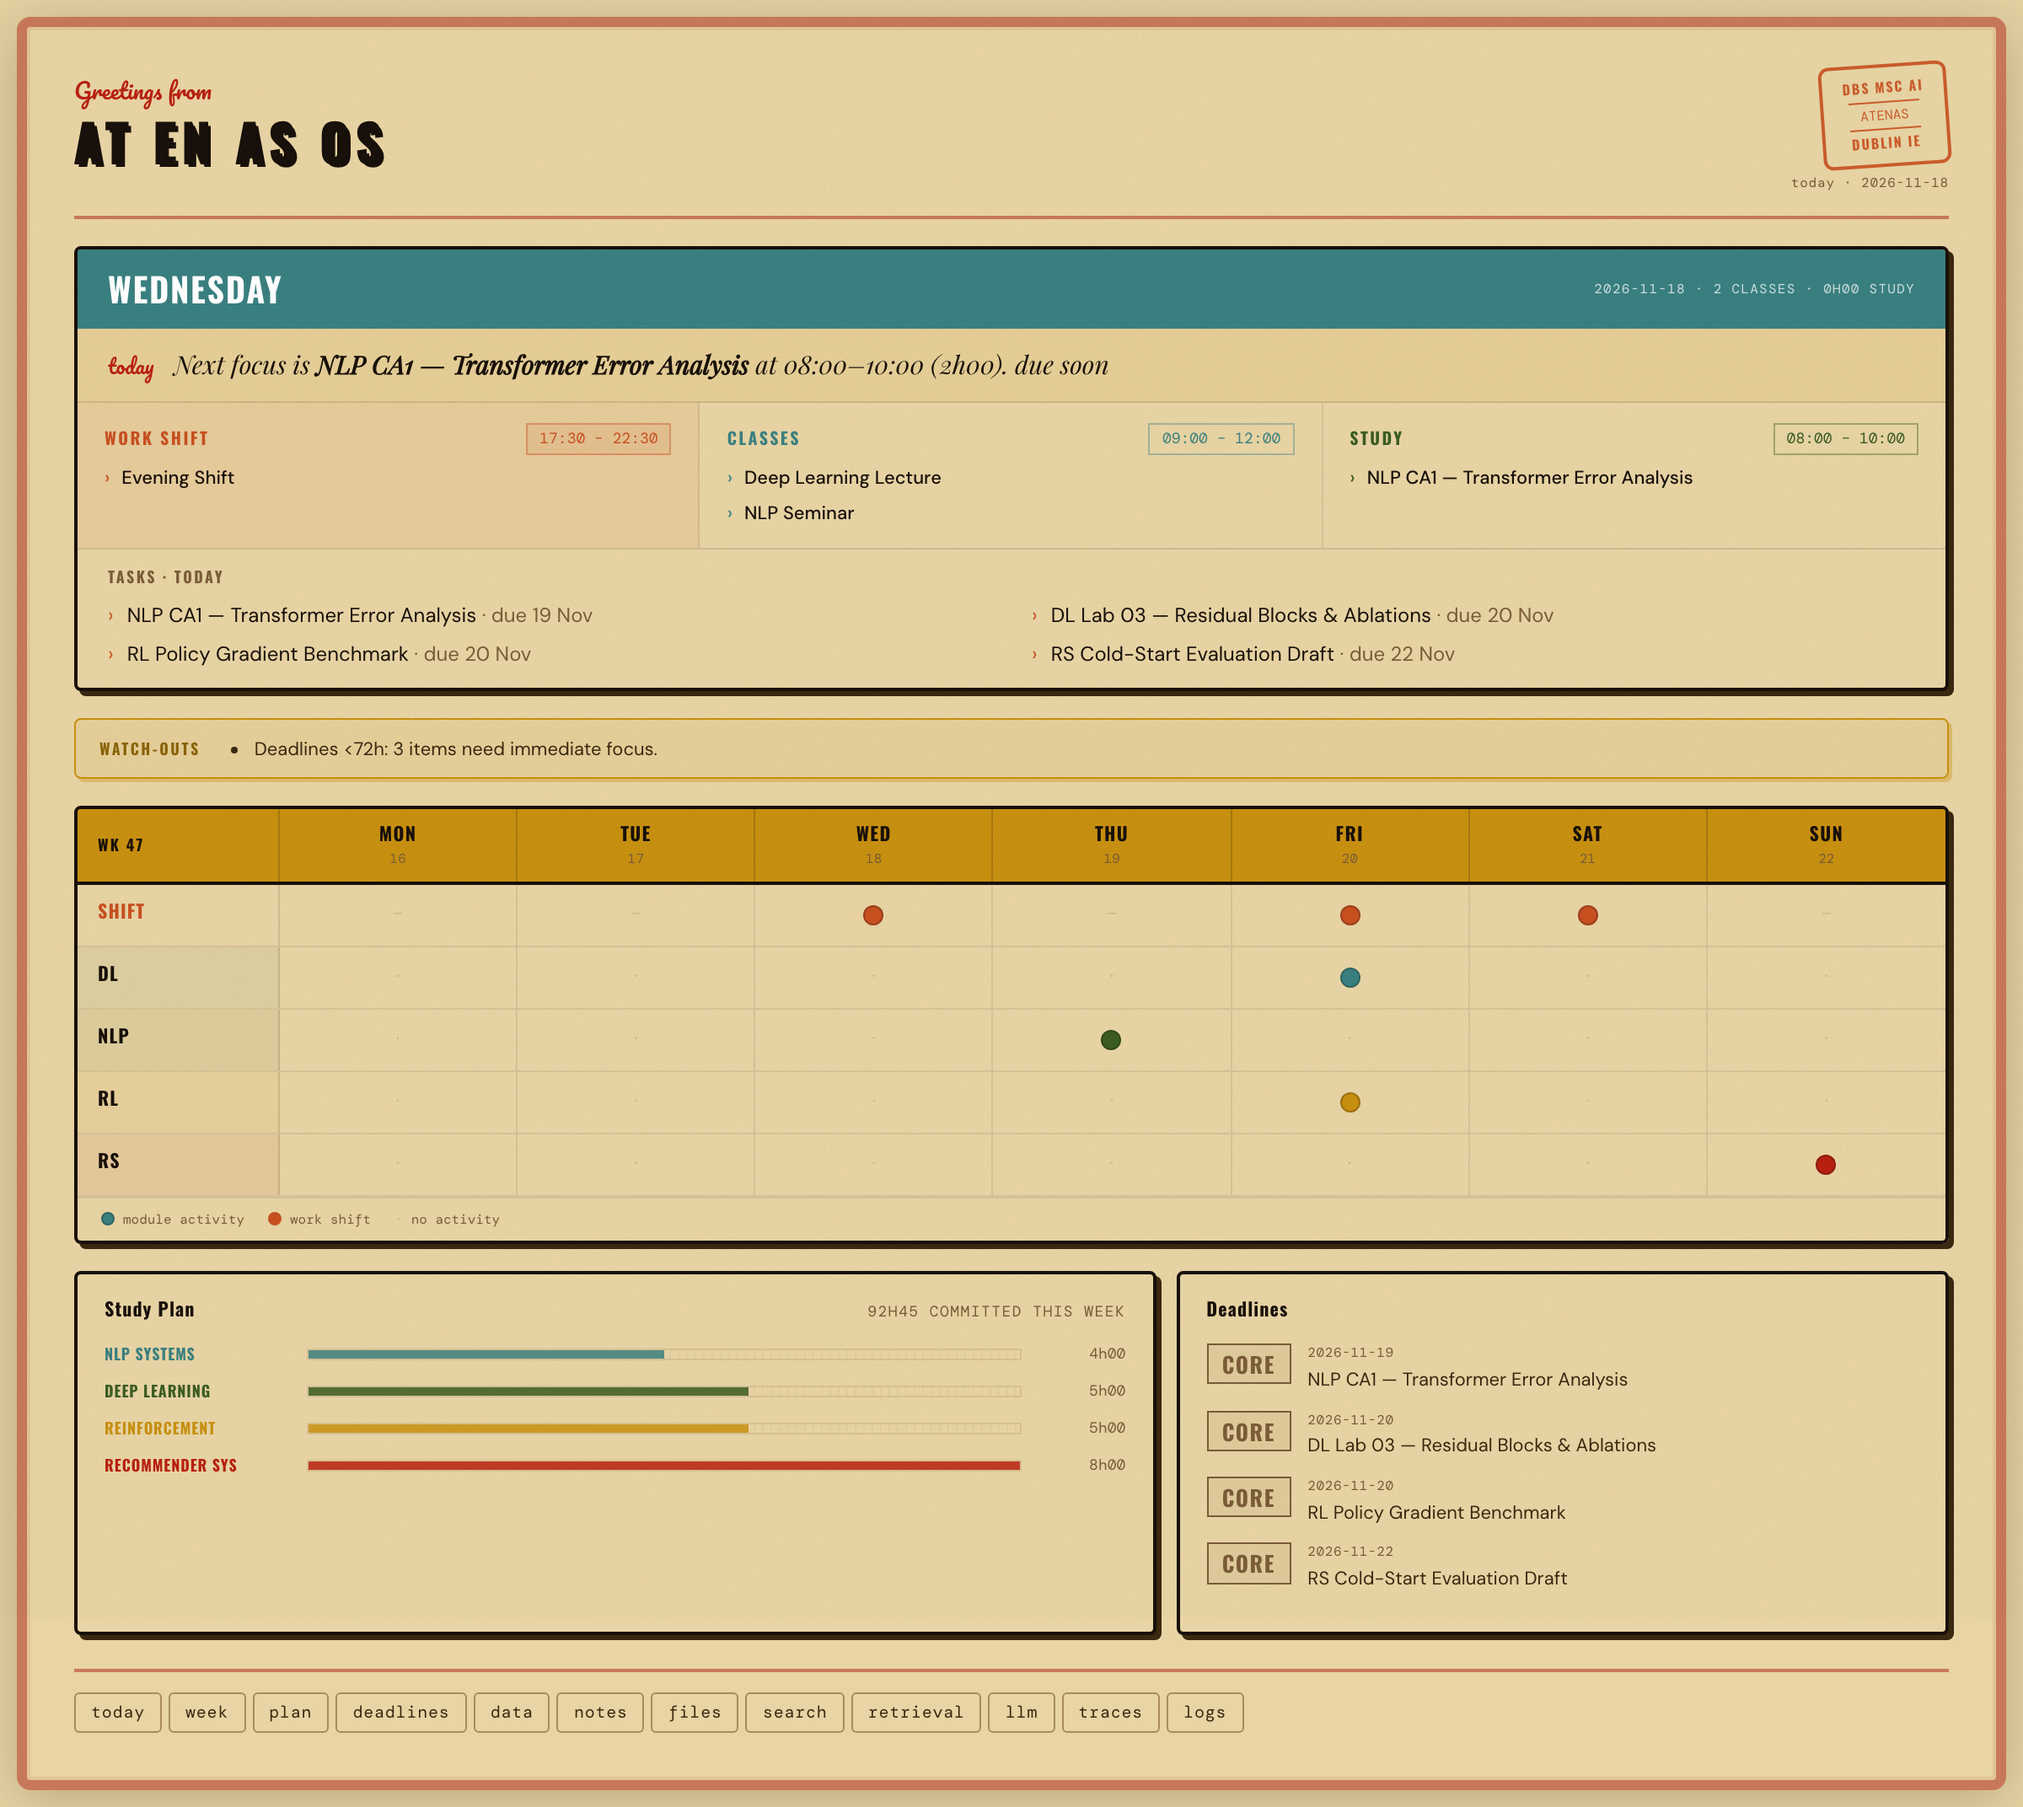
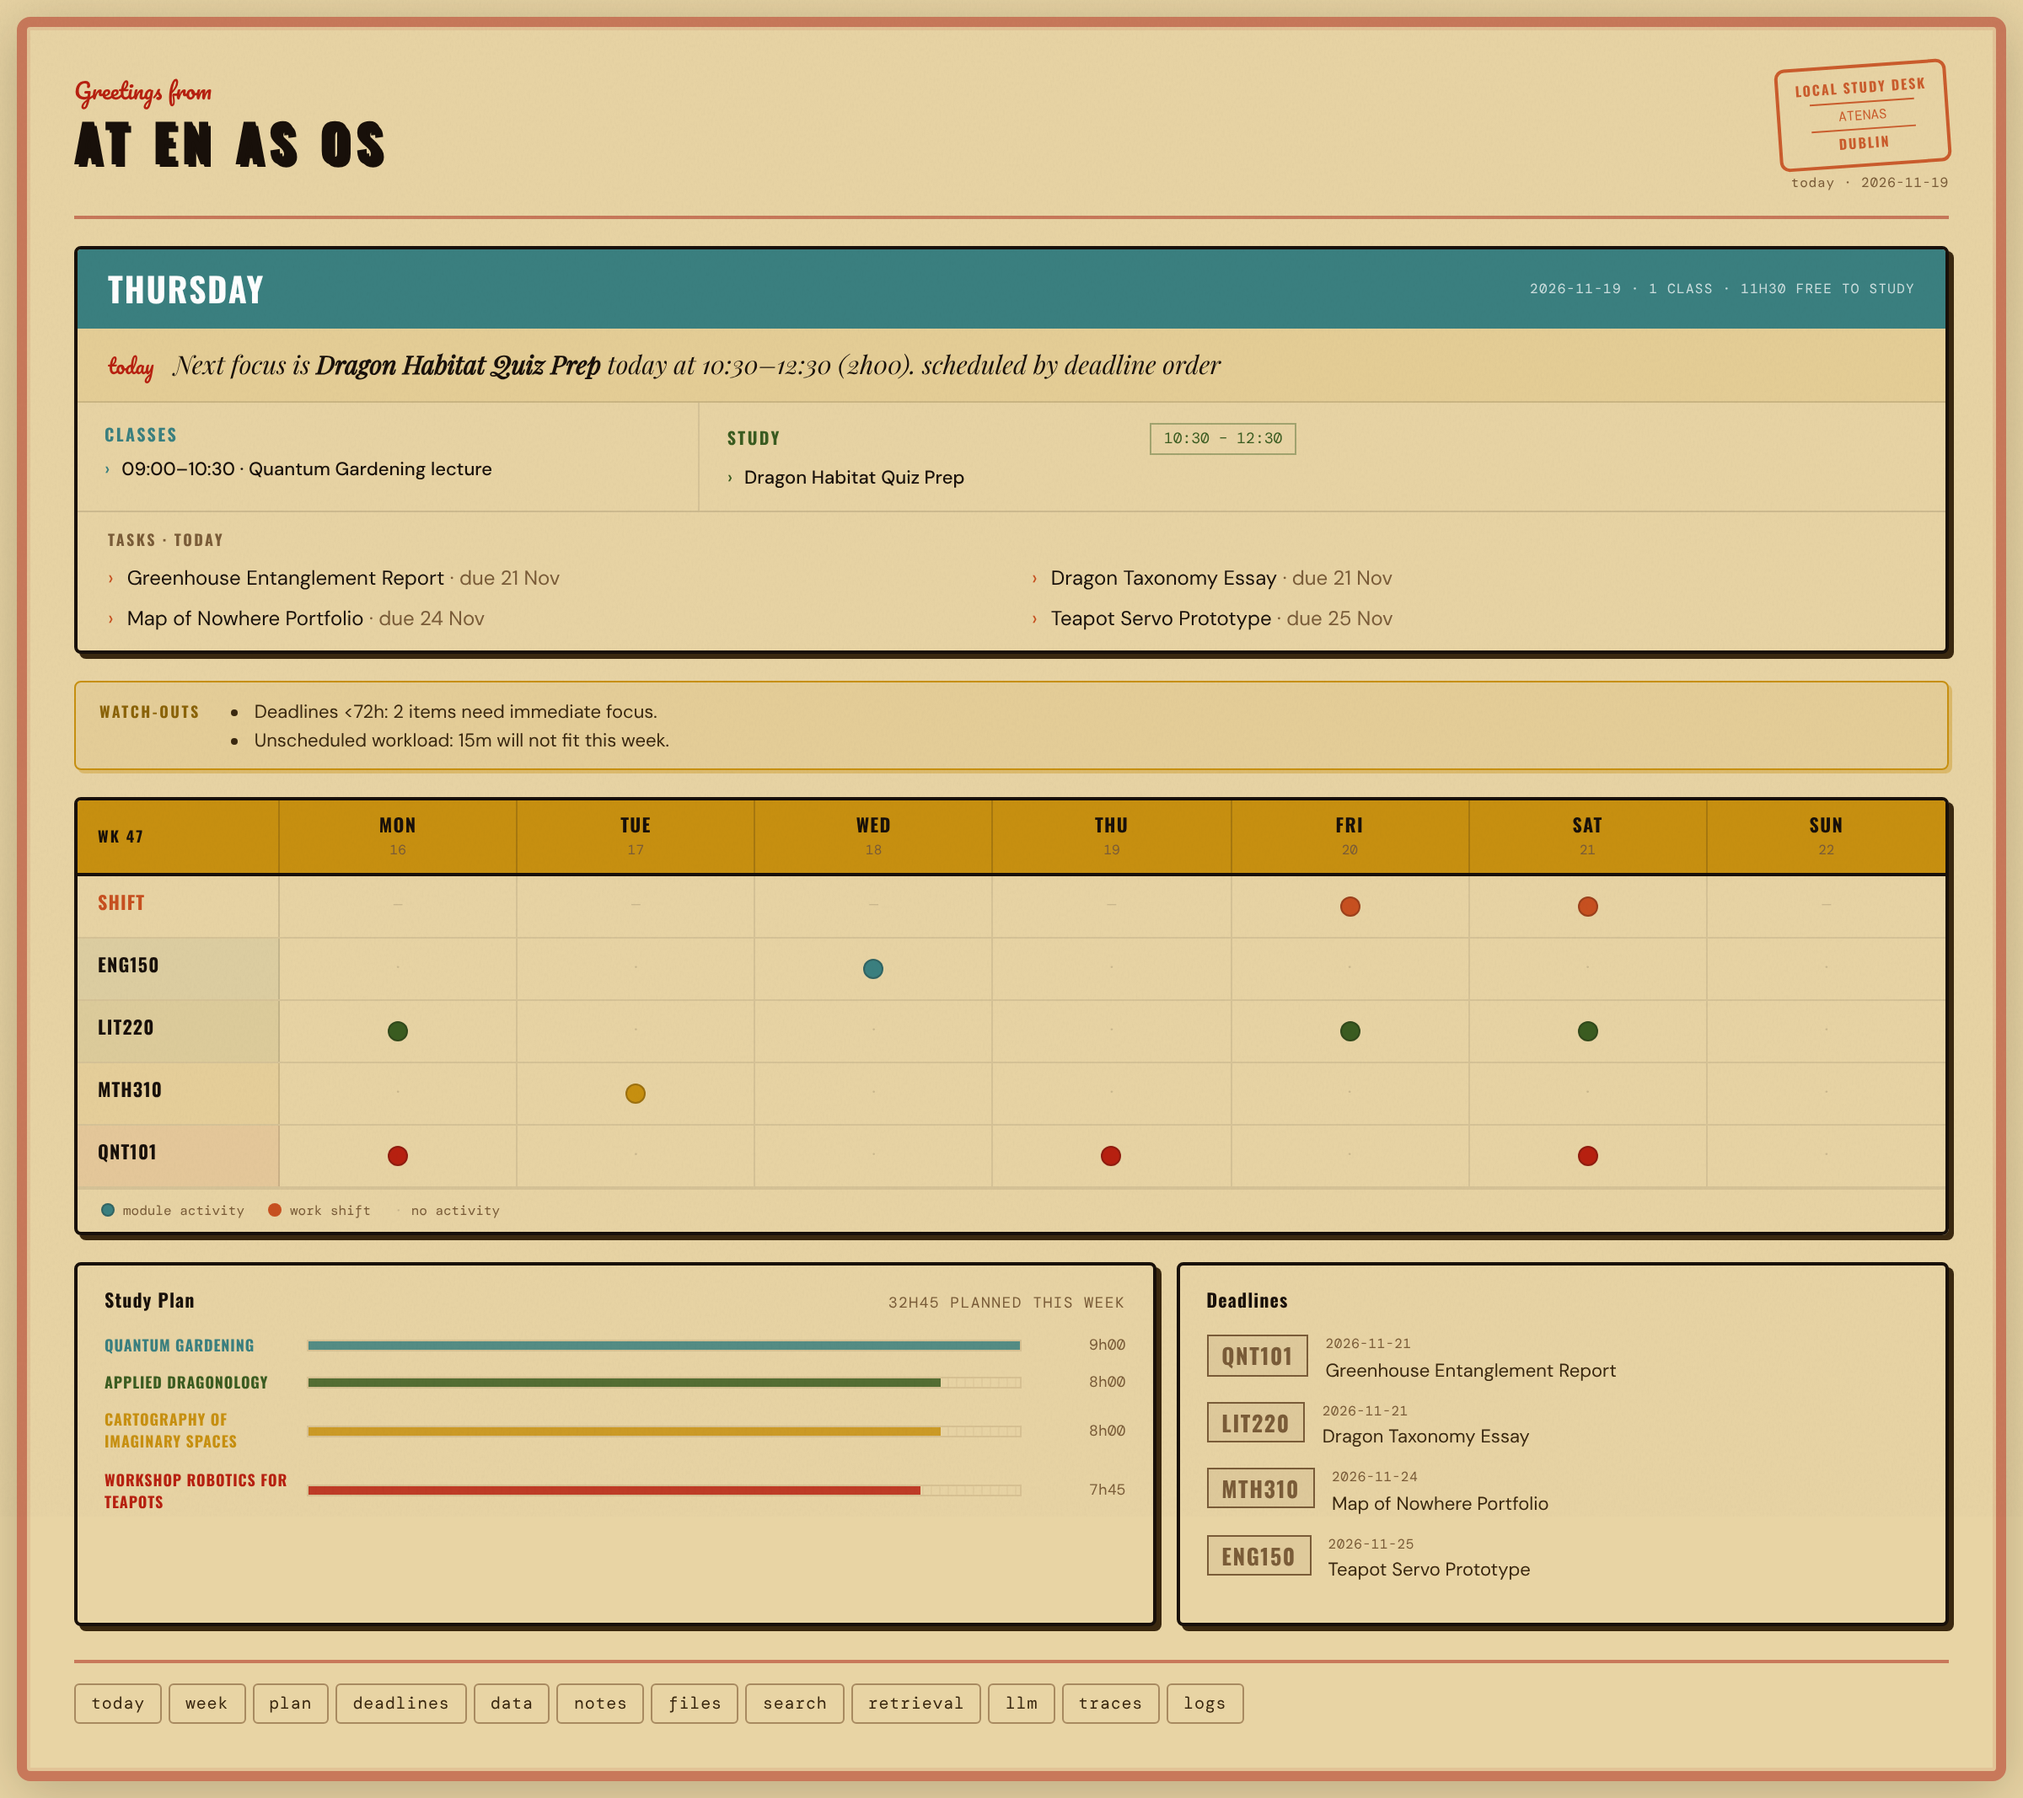
Dashboard: real module labels and class activity; refresh demo screenshot
Deadlines showed "CORE" because assignments carry module_id only; the week
grid now also marks weekly class days. docs/media/dashboard.png regenerated
from `atenas demo` data.

Claude-Session: https://claude.ai/code/session_01TprDbEiYFE6mH6Shoda8ur

diff --git a/app/templates/home.html b/app/templates/home.html
@@ -161,7 +161,7 @@
       {% for item in deadlines %}
       <div class="dlrow">
         <div class="dl-stamp">
-          <span class="dl-mod">{{ item.module_name or 'CORE' }}</span>
+          <span class="dl-mod">{{ module_labels.get(item.module_id) or 'CORE' }}</span>
         </div>
         <div>
           <span class="dl-due">{{ item.due_at.strftime('%Y-%m-%d') }}</span>

diff --git a/app/dashboard.py b/app/dashboard.py
@@ -77,6 +77,9 @@ async def home(request: Request) -> HTMLResponse:
             "week_number": now.isocalendar()[1],
             "week_days": week_days,
             "grid_data": _build_grid_data(week_overview),
+            "module_labels": {
+                m.id: (m.code or m.name) for m in academic_service.list_modules()
+            },
             "modules_activity": _build_modules_activity(academic_service, week_days),
             "planned_minutes": study_plan.summary.total_planned_minutes,
             "format_minutes": _format_minutes,
@@ -497,15 +500,15 @@ def _build_modules_activity(service: AcademicService, week_days: list[datetime])
     """Map module activity across the week for the grid dots."""
     modules = service.list_modules()
     assignments = service.list_all_assignments(include_completed=True)
-
-    # For a high-density "routine-plan" look, we just need dots.
-    # In a real system, this would look at sessions and study blocks.
+    sessions = service.list_class_sessions()
     activity = []
     for m in modules:
         days_active = []
         for day in week_days:
-            # Simple heuristic: module is active if it has a deadline or class that day
-            is_active = any(a.module_id == m.id and a.due_at.date() == day.date() for a in assignments)
+            # Active if the module has a deadline or a weekly class that day.
+            is_active = any(
+                a.module_id == m.id and a.due_at.date() == day.date() for a in assignments
+            ) or any(c.module_id == m.id and c.weekday == day.weekday() for c in sessions)
             days_active.append(is_active)
         activity.append({
             "name": m.name,

diff --git a/tests/test_dashboard_truthfulness.py b/tests/test_dashboard_truthfulness.py
@@ -50,3 +50,10 @@ def test_day_label_names_non_today_blocks() -> None:
 
 def test_minutes_until_ignores_non_datetimes() -> None:
     assert _minutes_until("not-a-datetime", "UTC") is None
+
+
+def test_deadlines_show_module_code_not_core(settings: Settings) -> None:
+    with _client(settings) as client:
+        text = client.get("/dashboard/").text
+    assert "QNT101" in text
+    assert "CORE" not in text

diff --git a/tests/test_dashboard.py b/tests/test_dashboard.py
@@ -412,5 +412,8 @@ class _FakeDashboardAcademicService:
     def list_modules(self) -> list[SimpleNamespace]:
         return [SimpleNamespace(id="mod-1", name="NLP", code="NLP")]
 
+    def list_class_sessions(self) -> list[SimpleNamespace]:
+        return []
+
     def list_all_assignments(self, include_completed: bool = False) -> list[SimpleNamespace]:
         return [self.assignment]
